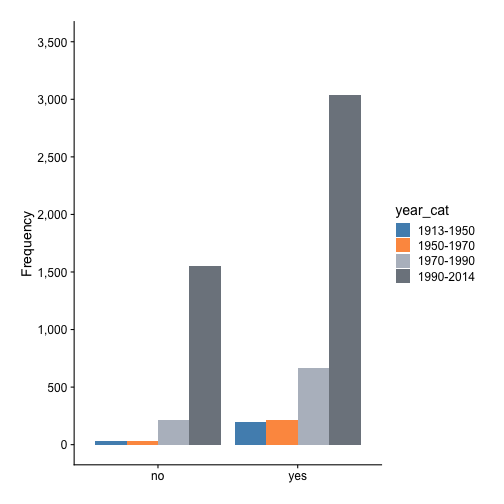
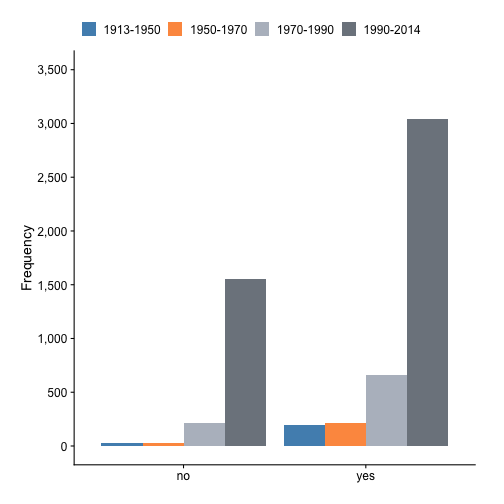
update 04-02-xxx

diff --git a/manuscript/04-02-barplot-2.md b/manuscript/04-02-barplot-2.md
@@ -25,7 +25,8 @@ Of course, we can also draw a stacked bar chart instead. We do that by setting
 A>
 ```r
 plt = mk_barplot_freq(films)
-plt(xvar = "year_cat", fillby="made_money", show_pct = T)
+plt(xvar = "year_cat", fillby="made_money", show_pct = T, 
+    legend_title = "Is profitable?", legend_pos = "top")
 ```
 
 ![Percents of Profitable vs. Unprofitable Films for Each Time Period](images/barplot_stacked-1.png)
@@ -42,7 +43,8 @@ the bar labels by setting `label_size = 0`, which will make the chart uncluttere
 A>
 ```r
 plt = mk_barplot_freq(films)
-plt(xvar = "made_money", fillby = "year_cat", label_size = 0)
+plt(xvar = "made_money", fillby = "year_cat", label_size = 0,
+    legend_title = NULL, legend_pos = "top")
 ```
 
 ![Number of Films at Each Period between Profitable and Unprofitable Films](images/barplot_dodged_p2-1.png)
@@ -60,7 +62,8 @@ set `yvar = "votes"` inside `plt()`, as shown in the code block below.
 A>
 ```r
 plt = mk_barplot_resp(films)
-plt(xvar = "mpaa", yvar = "votes", fillby = "made_money", label_size = 0)
+plt(xvar = "mpaa", yvar = "votes", fillby = "made_money", label_size = 0,
+    legend_title = "Is profitable?", legend_pos = "left")
 ```
 
 ![Votes of Profitable and Unprofitable Films for each MAPP rating](images/barplot_dodged_p3-1.png)
